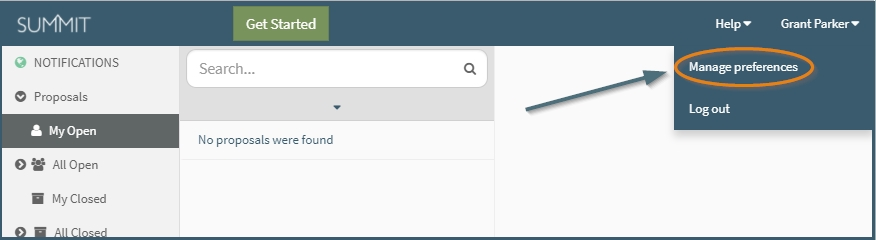
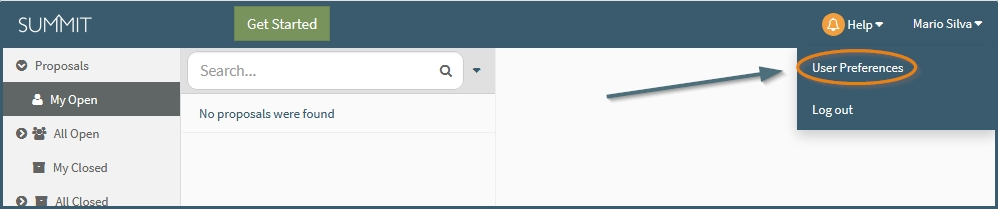
Updated User Guide and images

Changed region(s): [[0.0, 0.0, 1.0, 1.0], [0.0308, 0.7751, 0.1233, 0.8612]]

diff --git a/docs/Navigation/preferences.md b/docs/Navigation/preferences.md
@@ -1,20 +1,121 @@
-**Navigation / Manage Preferences**
+**Navigation / User Preferences**
 
-# Manage Preferences
+# User Preferences
 
-A user currently can change 3 personal settings:
+A user can change 3 sets of personal settings:
 
-1. **Default research organization**
-2. **Unsubscribe to Summit emails** (see Notice for details)
-3. **Preferred e-mail address**
+1. **Opt Out/In to various Summit related emails**
+2. **Preferred e-mail address**
+3. **Default research organization**
 
-To get to this section, click your name at the top right of Summit and then click "Manage preferences".
+To get to this section, click your name at the top right of Summit and then click "User Preferences".
 
-![Manage Preferences Location](../images/navigation/NavPref_managePrefLocation.jpg)
+![User Preferences Location](../images/navigation/NavPref_managePrefLocation.jpg)
 
 <br>
 
-## Default Research Organization
+![User Preferences Modal](../images/navigation/NavPref_ModalFull.jpg)
+
+## E-mail Preferences
+
+Depending on your role within a proposal and if you have the proposal favorited, will determine what email notifications you will receive.
+
+<style>
+table {
+    font-family: sans-serif;
+    border-collapse: collapse;
+    width: 100%;
+}
+
+caption {
+    color: black;
+    font-family: sans-serif
+}
+
+th {
+    color: white;
+    border: 1px solid #dddddd;
+    background-color: #3A5B6E;
+    text-align: left;
+    padding: 8px;
+}
+
+td {
+    border: 1px solid #dddddd;
+    text-align: left;
+    padding: 6px;
+}
+
+tr:nth-child(odd) {
+    background-color: #FAFAFA;
+}
+</style>
+
+<table>
+<caption>List of All Email Notifications</caption>
+  <col width=19%>
+  <col width=41%>
+  <col width=40%>
+  <tr>
+    <th>Email Notification</th>
+    <th>Category</th>
+    <th>Sent to</th>
+    <th>Note</th>
+  </tr>
+  <tr>
+    <td>Work Initiation</td>
+    <td>Initiation</td>
+    <td>Work Creator & Pre Award Associate</td>
+    <td>All can opt out</td>
+  </tr>
+  <tr>
+    <td>DoD / NASA / PHS Notice</td>
+    <td>DoD / NASA / PHS Notice</td>
+    <td>Proposal Team, Support Staff, Pre Award Associate</td>
+    <td>Proposal Team cannot opt out, Support Staff can opt out</td>
+  </tr>
+  <tr>
+    <td>Awaiting Approval</td>
+    <td>Initiation</td>
+    <td>Immediate Approvers in the org</td>
+    <td>All can opt out</td>
+  </tr>
+  <tr>
+    <td>Routing Canceled</td>
+    <td>Proposal Team, Support Staff, Approvers, Pre Award Associate</td>
+    <td>All can opt out</td>
+  </tr>
+  <tr>
+    <td>Return for Correction</td>
+    <td>Proposal Team, Support Staff, Approvers, Pre Award Associate</td>
+    <td>All can opt out</td>
+  </tr>
+  <tr>
+    <td>Approval Discarded</td>
+    <td>Proposal Team, Support Staff, Approvers, Pre Award Associate</td>
+    <td>All can opt out</td>
+  </tr>
+  <tr>
+    <td>File Uploads</td>
+    <td>Proposal Team, Support Staff, Pre Award Associate</td>
+    <td>All can opt out</td>
+  </tr>
+</table>
+
+  * Proposal Team member - PI, Co-PI, Proposal Team member
+  * Support Staff - users that are from the submitting or credit organization associated with a named Proposal Team member
+  * Approvers - users that are designated approver or approver delegates from the submitting or credit organizations being used in the work
+  * Pre Award Associate - the assigned Pre Award associate on the proposal
+
+**Preferred E-mail Address**
+    - By default the email listed here will be the user's pid + @vt.edu, but users can elect to use another email address for Summit communication emails.
+![Preferred Email](../images/navigation/NavPref_PreferredEmail.jpg)
+
+<br>
+
+## Other Settings
+
+**Default Research Organization**
 
 Users associated with multiple organizations can indicate which organization they mainly conduct research under if it is different from their Home Org.  By clicking on the user name at the top right of the screen and choosing the Manage Preferences option, users can indicate a Default Research Organization.
 
@@ -30,19 +131,5 @@ The organization listed here will be the pre-populated organization in the submi
 ![Pre-populated fields in the Editor for Default Research Organization](../images/navigation/NavPref_PrePopulatedEditor.jpg)
 
 Users can still edit the fields for individual proposals. The Default Research Organization can be updated at any time and will only be used on new proposals.  It does not update current fields.
-
-<br>
-
-## E-mail Preferences
-
-A user can add/change 2 E-mail related settings in their manage preferences:
-
-1. Unsubscribe from Summit external communications
-    - If you are a named **Proposal Team member** (PI, Co-PI, Proposal Team member), then this will only unsubscribe you from emails being sent when the user creates a proposal.  All other emails that Summit sends is considered essential and will be sent (ex. DoD notice).
-    - If you are a **support staff member** on an org associated with a named Proposal Team member, then clicking unsubscribe will remove you from all Summit e-mail communications.
-![Unsubscribe Emails](../images/navigation/NavPref_Unsubscribe.jpg)
-2. Preferred E-mail Address
-    - By default the email listed here will be the user's pid + @vt.edu, but users can elect to use another email address for Summit communication emails.
-![Preferred Email](../images/navigation/NavPref_PreferredEmail.jpg)
 
 <br>

diff --git a/docs/index.md b/docs/index.md
@@ -22,7 +22,7 @@ The tabs at the top will take you to the specific topics within the User Guide (
     - [Internal Notifications](Navigation/notifications.md)
     - [Proposal Navigation](Navigation/proposal.md)
     - [Summary View indicators](Navigation/indicators.md)
-    - [Manage Preferences](Navigation/preferences.md)
+    - [User Preferences](Navigation/preferences.md)
 - Data
     - [Initiator](data/Proposal Initiator.md)
     - [Proposal Editor](data/Proposal Editor.md)

diff --git a/docs/releaseNotes.md b/docs/releaseNotes.md
@@ -1,3 +1,7 @@
+# Release 2.3.0 - March 2018
+- **Manage Preferences**
+- **Email Notifications**
+
 # Release 2.2.0 - February 2018
 
 - **Approve and Return buttons on Approvals**
